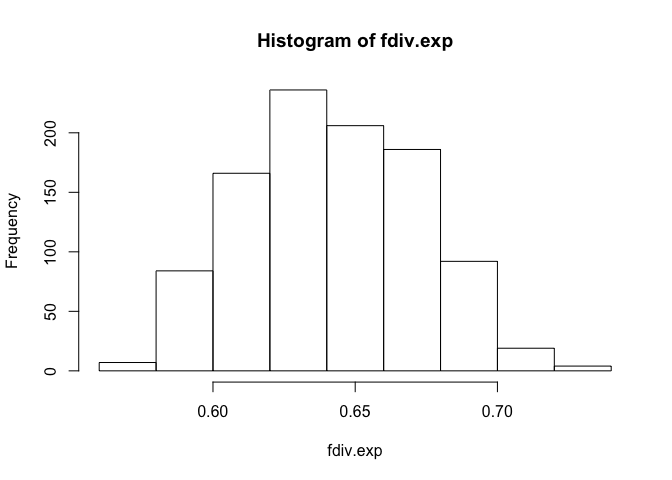
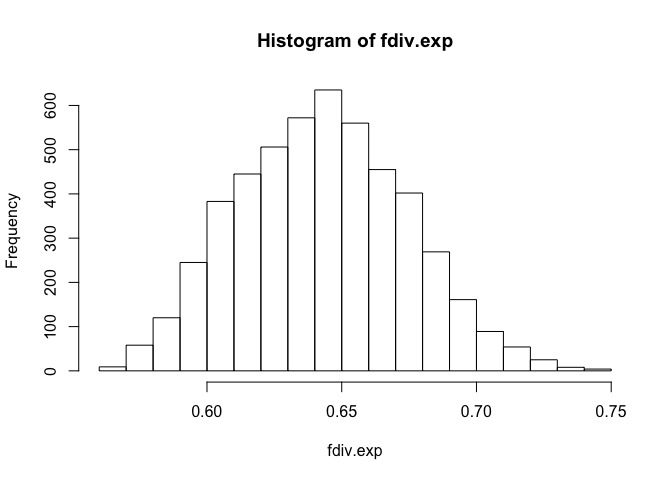
update FD null dist to 5000 runs

diff --git a/Functional_Diversity/FD.null.html b/Functional_Diversity/FD.null.html
@@ -105,21 +105,21 @@ randsp.data &lt;- ntbl.matrix.mic[sample(1:length(row.names(ntbl.matrix.mic)), 2
 rand.fd &lt;- dbFD(randsp.data, messages = FALSE)
 rand.fd$FDiv</code></pre>
 <pre><code>## Community1 
-##  0.6417152</code></pre>
+##  0.6187113</code></pre>
 <pre class="r"><code>#### repeat this subsampling process many times...to generate a mean expected FD value.
 
 fdiv.exp &lt;- vector()
-for (i in 1:1000) {
+for (i in 1:5000) {
   randsp.data&lt;- ntbl.matrix.mic[sample(1:length(row.names(ntbl.matrix.mic)), 29, replace = FALSE),]
   fdiv.exp[i] &lt;- dbFD(randsp.data, messages = FALSE)$FDiv
 }
 
 hist(fdiv.exp)</code></pre>
[2 lines of base64/hex data omitted]
 <pre class="r"><code># abline(v = 0.4502677, col = &quot;red&quot;) #this is the value of FDiv I calculated for the US species
 
 mean(fdiv.exp)</code></pre>
-<pre><code>## [1] 0.6417245</code></pre>
+<pre><code>## [1] 0.6428197</code></pre>
 <pre class="r"><code>#### Step 6. 
 # Take the mean FDiv value, and compare my observed FDiv value to mean expected value.</code></pre>
 

diff --git a/Functional_Diversity/FD.null.md b/Functional_Diversity/FD.null.md
@@ -46,14 +46,14 @@ rand.fd$FDiv
 
 ```
 ## Community1 
-##  0.6417152
+##  0.6187113
 ```
 
 ```r
 #### repeat this subsampling process many times...to generate a mean expected FD value.
 
 fdiv.exp <- vector()
-for (i in 1:1000) {
+for (i in 1:5000) {
   randsp.data<- ntbl.matrix.mic[sample(1:length(row.names(ntbl.matrix.mic)), 29, replace = FALSE),]
   fdiv.exp[i] <- dbFD(randsp.data, messages = FALSE)$FDiv
 }
@@ -70,7 +70,7 @@ mean(fdiv.exp)
 ```
 
 ```
-## [1] 0.6417245
+## [1] 0.6428197
 ```
 
 ```r
